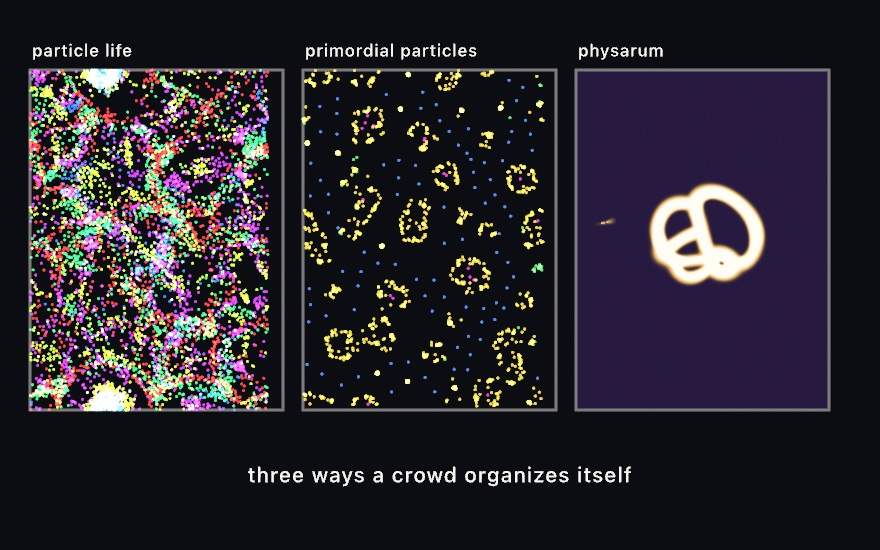
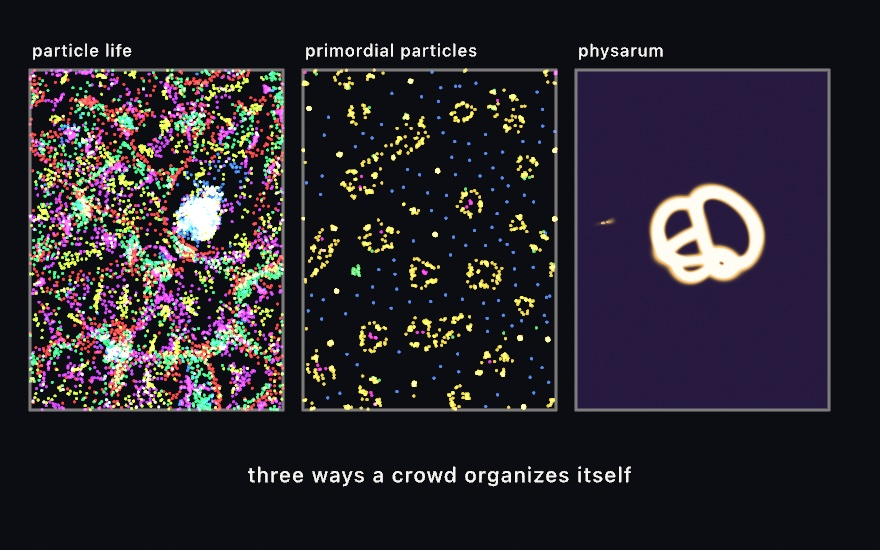
A neighbor grid covers its bounds. SpatialHash sized its world as a whole number of cells of the radius, so a radius that did not divide the bounds left the far edge outside the world and every particle wrapped short of it: Chapter 25's panels, 253 wide at radii of 34 and 16, showed a bare strip alo
Claude-Session: https://claude.ai/code/session_01WqLtBAH3GLezrn1E1FY2W7

Changed region(s): [[0.0307, 0.1236, 0.6443, 0.7727], [0.6136, 0.1236, 0.6443, 0.1545], [0.3682, 0.5255, 0.3989, 0.5564]]

diff --git a/Sources/Ollin/Compute/SpatialHash.swift b/Sources/Ollin/Compute/SpatialHash.swift
@@ -63,6 +63,9 @@ public final class SpatialHash {
     public let count: Int
     /// The cell edge, which is also the neighbor query radius (points).
     public let cellSize: Double
+    /// A cell's width and height: each side of `bounds` divided into as many
+    /// cells of at least `cellSize` as fit, so the cells tile the bounds exactly.
+    let cellExtent: Vector2
     /// The grid's min corner in canvas space (points, top-left origin).
     public let origin: Vector2
     /// The toroidal domain the grid tiles (points); positions wrap within
@@ -104,20 +107,27 @@ public final class SpatialHash {
     private let scatterKernel: ComputeKernel
     private let rankKernel: ComputeKernel
 
-    /// Build a hash over `bounds` with square cells of `cellSize` (set this to the
-    /// neighbor radius your query uses), sorting `count` particles. The grid is
+    /// Build a hash over `bounds` with cells at least `cellSize` on a side (set this
+    /// to the neighbor radius your query uses), sorting `count` particles. The world
+    /// is `bounds` itself: as many cells as `cellSize` divides each side into, each
+    /// stretched to the side's exact share, so a particle wraps at the bounds a
+    /// sketch gave and not at the last whole cell short of them (a 253-wide panel
+    /// at a radius of 15 would wrap at 240 and leave a bare strip). The grid is
     /// clamped to at least 3×3 cells so the wrapped 3×3 neighbor block never revisits
-    /// a cell, so the actual `worldSize` may round up to a whole number of cells past
-    /// `bounds`.
+    /// a cell, which is the one case the world rounds up past `bounds`, to three
+    /// cells of `cellSize`.
     public init(bounds: Rectangle, cellSize: Double, count: Int) {
         precondition(count > 0, "SpatialHash needs a positive count")
         precondition(cellSize > 0, "SpatialHash needs a positive cellSize")
         let gw = max(3, Int((bounds.width / cellSize).rounded(.down)))
         let gh = max(3, Int((bounds.height / cellSize).rounded(.down)))
-        let world = Vector2(Double(gw) * cellSize, Double(gh) * cellSize)
+        let cell = Vector2(max(cellSize, bounds.width / Double(gw)),
+                           max(cellSize, bounds.height / Double(gh)))
+        let world = Vector2(cell.x * Double(gw), cell.y * Double(gh))
 
         self.count = count
         self.cellSize = cellSize
+        self.cellExtent = cell
         self.origin = bounds.corner
         self.worldSize = world
         self.gridWidth = gw
@@ -135,7 +145,8 @@ public final class SpatialHash {
             origin: SIMD2<Float>(Float(bounds.x), Float(bounds.y)),
             worldSize: SIMD2<Float>(Float(world.x), Float(world.y)),
             cellSize: Float(cellSize),
-            gridW: UInt32(gw), gridH: UInt32(gh), numCells: UInt32(numCells))
+            gridW: UInt32(gw), gridH: UInt32(gh), numCells: UInt32(numCells),
+            cell: SIMD2<Float>(Float(cell.x), Float(cell.y)))
         self.gridBuffer = ComputeBuffer([grid])
 
         let source = SpatialHash.kernelSource

diff --git a/Tests/OllinTests/SpatialHashTests.swift b/Tests/OllinTests/SpatialHashTests.swift
@@ -26,7 +26,7 @@ struct SpatialHashTests {
     @Test func gridStrideMatchesHeader() {
         // The shared CPU/GPU struct is stride 32 (float2 @0, float2 @8, float @16,
         // three uints @20…28). A drift here would corrupt every hash dispatch.
-        #expect(MemoryLayout<OllinSpatialGrid>.stride == 32)
+        #expect(MemoryLayout<OllinSpatialGrid>.stride == 40)
     }
 
     @Test func gridDerivation() {
@@ -36,6 +36,19 @@ struct SpatialHashTests {
         #expect(h.gridWidth == 8 && h.gridHeight == 8)
         #expect(h.worldSize.x == 400 && h.worldSize.y == 400)
         #expect(h.cellCount.count == 64 && h.sortedIndices.count == 100)
+    }
+
+    @Test func theWorldIsTheBoundsWhenTheRadiusDoesNotDivideThem() {
+        // 253 by 340 at a radius of 15 is 16 by 22 cells. The world used to be
+        // 240 by 330, the last whole cells, and a sim seeded and wrapped inside
+        // it left a bare strip along the far edges of the bounds it was given.
+        let h = SpatialHash(bounds: Rectangle(x: 10, y: 20, width: 253, height: 340),
+                            cellSize: 15, count: 100)
+        #expect(h.gridWidth == 16 && h.gridHeight == 22)
+        #expect(h.worldSize.x == 253 && h.worldSize.y == 340)
+        #expect(h.cellExtent.x >= 15 && h.cellExtent.y >= 15,
+                "a cell is never narrower than the query radius")
+        #expect(abs(h.cellExtent.x * 16 - 253) < 1e-9 && abs(h.cellExtent.y * 22 - 340) < 1e-9)
     }
 
     @Test func gridClampsToThree() {

diff --git a/Sources/Ollin/Renderer/OllinShaderTypes.h b/Sources/Ollin/Renderer/OllinShaderTypes.h
@@ -1334,20 +1334,22 @@ typedef struct {
 
 // A uniform-grid spatial hash over a toroidal 2-D domain (the GPU neighbor-search
 // primitive `SpatialHash` builds and every particle-interaction sim queries).
-// Cells tile `worldSize` exactly (`worldSize = float2(gridW, gridH) * cellSize`), so
+// Cells tile `worldSize` exactly (`worldSize = float2(gridW, gridH) * cell`), so
 // wrapping a position into `[origin, origin + worldSize)` and wrapping a cell index
-// modulo `gridW`/`gridH` stay consistent. `cellSize` is set to the query radius, so
-// every neighbor within the radius lives in the queried cell's toroidal 3×3 block
-// (which needs `gridW`/`gridH` at least 3, which `SpatialHash` guarantees). Stride
-// 32: float2 @0, float2 @8, float @16, three uints @20…28. (Distinct from
-// `OllinGridParams` above, which is the 3D reference-floor uniform.)
+// modulo `gridW`/`gridH` stay consistent. `cellSize` is the query radius and each
+// `cell` side is at least that, so every neighbor within the radius lives in the
+// queried cell's toroidal 3×3 block (which needs `gridW`/`gridH` at least 3, which
+// `SpatialHash` guarantees). Stride 40: float2 @0, float2 @8, float @16, three
+// uints @20…28, float2 @32. (Distinct from `OllinGridParams` above, which is the
+// 3D reference-floor uniform.)
 typedef struct {
     simd_float2 origin;         // world-space min corner (points, top-left origin)
-    simd_float2 worldSize;      // the toroidal domain extent = float2(gridW,gridH)*cellSize
-    float cellSize;             // uniform cell edge, set to the neighbor query radius
+    simd_float2 worldSize;      // the toroidal domain extent = float2(gridW,gridH)*cell
+    float cellSize;             // the neighbor query radius, which no cell side is under
     unsigned int gridW;         // cells across
     unsigned int gridH;         // cells down
     unsigned int numCells;      // gridW * gridH (the cell-count/start/cursor buffer length)
+    simd_float2 cell;           // one cell's width and height: worldSize / (gridW, gridH)
 } OllinSpatialGrid;
 
 // Per-substep parameters for the particle-fluid step (`ParticleFluid`), packed by

diff --git a/CHANGELOG.md b/CHANGELOG.md
@@ -48,6 +48,8 @@ Notable changes to Ollin, newest first. The format follows [Keep a Changelog](ht
 
 - **A transparent pixel of a mark writes no depth.** Under `depth(at:)`, a circle, a rect, a glyph, an image, and a point-cloud splat wrote depth over their whole quad, the transparent corners and halo included, so a mark set behind another cut a straight edge out of it where nothing was drawn. A pixel with no coverage is now discarded before the depth write, so a mark hides only where its ink is. [Depth compositing](Docs/3D/DepthCompositing.md#depth)
 
+- **A neighbor grid covers its bounds.** `SpatialHash`, and with it Particle Life, the Primordial Particle System, Particle Lenia, swarm chemistry, `Swarm`, `ParticleFluid` and `SoftBodies`, sized its world as a whole number of cells of the radius, so a radius that did not divide the bounds left the far edge outside the world: at a radius of 34 in a 253-wide panel the particles wrapped at 238, leaving a 15-pixel strip empty along the right and the bottom. The cells now stretch to cover the bounds exactly, each at least the radius wide so a search still reaches every neighbor, and the world is the bounds. [Compute](Docs/Shaders/Compute.md#spatialhash)
+
 - **A kite-and-dart tiling covers its patch.** `Penrose.tiles(.kitesAndDarts, in:tileEdge:)` split each half-kite into a piece that was no half-kite, so a third of the halves found no mirror partner and were dropped, and the tiling came back with bare patches through it (about 31% of a panel) and too few kites. The split is the classic one now, two half-kites and a half-dart, each tiling covers its patch once, the kites outnumber the darts by the golden ratio, and the arcs meet across every edge; a test that samples the patch's interior pins the coverage the edge test could not see. The rhombs were right all along. [Aperiodic tilings](Docs/Drawing/AperiodicTilings.md)
 
 - **A physics snapshot keeps a body's own mass and center of mass.** A body given a mass or a center of mass rather than one worked out from its collider, as a scene's `physics:mass` and `physics:centerOfMass` give them through the import, came back from `restore(_:)` at the mass its shape and density make, balanced at its middle. The snapshot now writes both, in format 6, and reads formats 4 and 5 as before. [Physics3D](Docs/Simulation/Physics3D.md)
